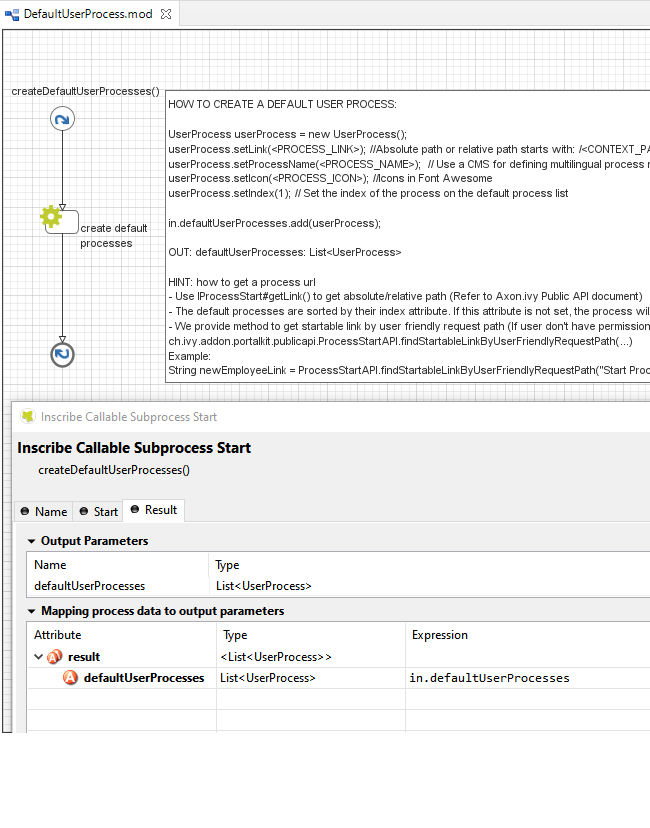
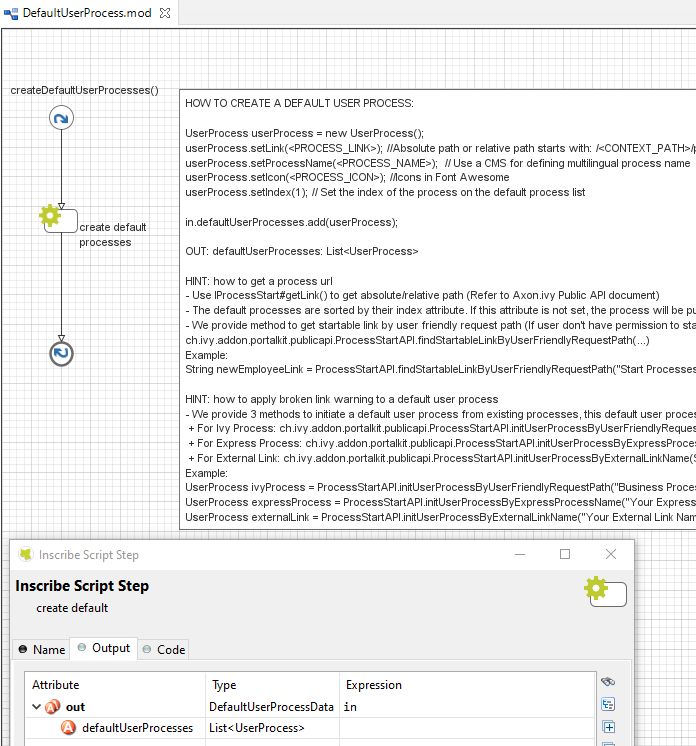
IVYPORTAL-11473: Store favorite processes without links of processes - Update document

Changed region(s): [[0.0, 0.0, 1.0, 1.0]]

diff --git a/AxonIvyPortal/PortalKit/src/ch/ivy/addon/portalkit/publicapi/ProcessStartAPI.java b/AxonIvyPortal/PortalKit/src/ch/ivy/addon/portalkit/publicapi/ProcessStartAPI.java
@@ -39,14 +39,35 @@ public final class ProcessStartAPI {
     });
   }
 
+  /**
+   * Initiates {@link UserProcess} by user friendly request path.
+   * 
+   * @param friendlyRequestPath friendly path e.g "Start Processes/UserExampleGuide/userExampleGuide.ivp"
+   * @param displayName value for {@link UserProcess} processName field. To display process name with multilingual, provide a CMS for this param
+   * @return {@link UserProcess}
+   */
   public static UserProcess initUserProcessByUserFriendlyRequestPath(String friendlyRequestPath, String displayName) {
     return initUserProcess(findStartableIdByUserFriendlyRequestPath(friendlyRequestPath), ProcessType.IVY_PROCESS, displayName);
   }
 
+  /**
+   * Initiates {@link UserProcess} by {@link ExpressProcess} name.
+   * 
+   * @param expressProcessName Name of existing {@link ExpressProcess} in database
+   * @param displayName value for {@link UserProcess} processName field. To display process name with multilingual, provide a CMS for this param
+   * @return {@link UserProcess}
+   */
   public static UserProcess initUserProcessByExpressProcessName(String expressProcessName, String displayName) {
     return initUserProcess(findExpressProcessIdByExpressProcessName(expressProcessName), ProcessType.EXPRESS_PROCESS, displayName);
   }
 
+  /**
+   * Initiates {@link UserProcess} by External Link name.
+   * 
+   * @param externalLinkName Name of existing {@link ExternalLink} in database. Note: {@link ExternalLink} name can be duplicated in database, this method will return first matched {@link ExternalLink}
+   * @param displayName value for {@link UserProcess} processName field. To display process name with multilingual, provide a CMS for this param
+   * @return {@link UserProcess}
+   */
   public static UserProcess initUserProcessByExternalLinkName(String externalLinkName, String displayName) {
     UserProcess userProcess = initUserProcess(findExternalLinkIdByExternalLinkName(externalLinkName), ProcessType.EXTERNAL_LINK, displayName);
     userProcess.setExternalLink(true);

diff --git a/AxonIvyPortal/PortalKit/src/ch/ivy/addon/portalkit/persistence/dao/ExternalLinkDao.java b/AxonIvyPortal/PortalKit/src/ch/ivy/addon/portalkit/persistence/dao/ExternalLinkDao.java
@@ -1,5 +1,6 @@
 package ch.ivy.addon.portalkit.persistence.dao;
 
+import java.util.Comparator;
 import java.util.List;
 import java.util.Optional;
 import java.util.stream.Collectors;
@@ -22,9 +23,11 @@ public class ExternalLinkDao extends AbstractDao<ExternalLink> {
   }
 
   public ExternalLink findExternalLinkByName(String externalLinkName) {
+    Comparator<ExternalLink> comparator = (link1, link2) -> Long.compare(link1.getId(), link2.getId());
     return findAll()
         .stream()
         .filter(externalLink -> Objects.equal(externalLink.getName(), externalLinkName))
+        .sorted(comparator)
         .findFirst().orElse(null);
   }
 

diff --git a/Documentation/portal-guide/source/portal-developer-guide/customization/default-user-process.rst b/Documentation/portal-guide/source/portal-developer-guide/customization/default-user-process.rst
@@ -30,4 +30,10 @@ list of user processes. Follow instruction to create default processes.
 
     - To display process name with multilingual, define a **CMS** and set it for **UserProcess#setProcessName**
 
+    - To apply broken link warning to a default user process, we provide 3 methods in  ``ProcessStartAPI``  class to initiate a default user process from existing processes.
+      This default user process will store ``processId`` and ``processType`` that will be used to check if it is broken or not.
+        + For Ivy Process: ``initUserProcessByUserFriendlyRequestPath(String friendlyRequestPath, String displayName)``
+        + For Express Process: ``initUserProcessByExpressProcessName(String expressProcessName, String displayName)``
+        + For External Link: ``initUserProcessByExternalLinkName(String externalLinkName, String displayName)``
+
 .. |default-user-processes| image:: images/default-user-process/default-user-processes.png
